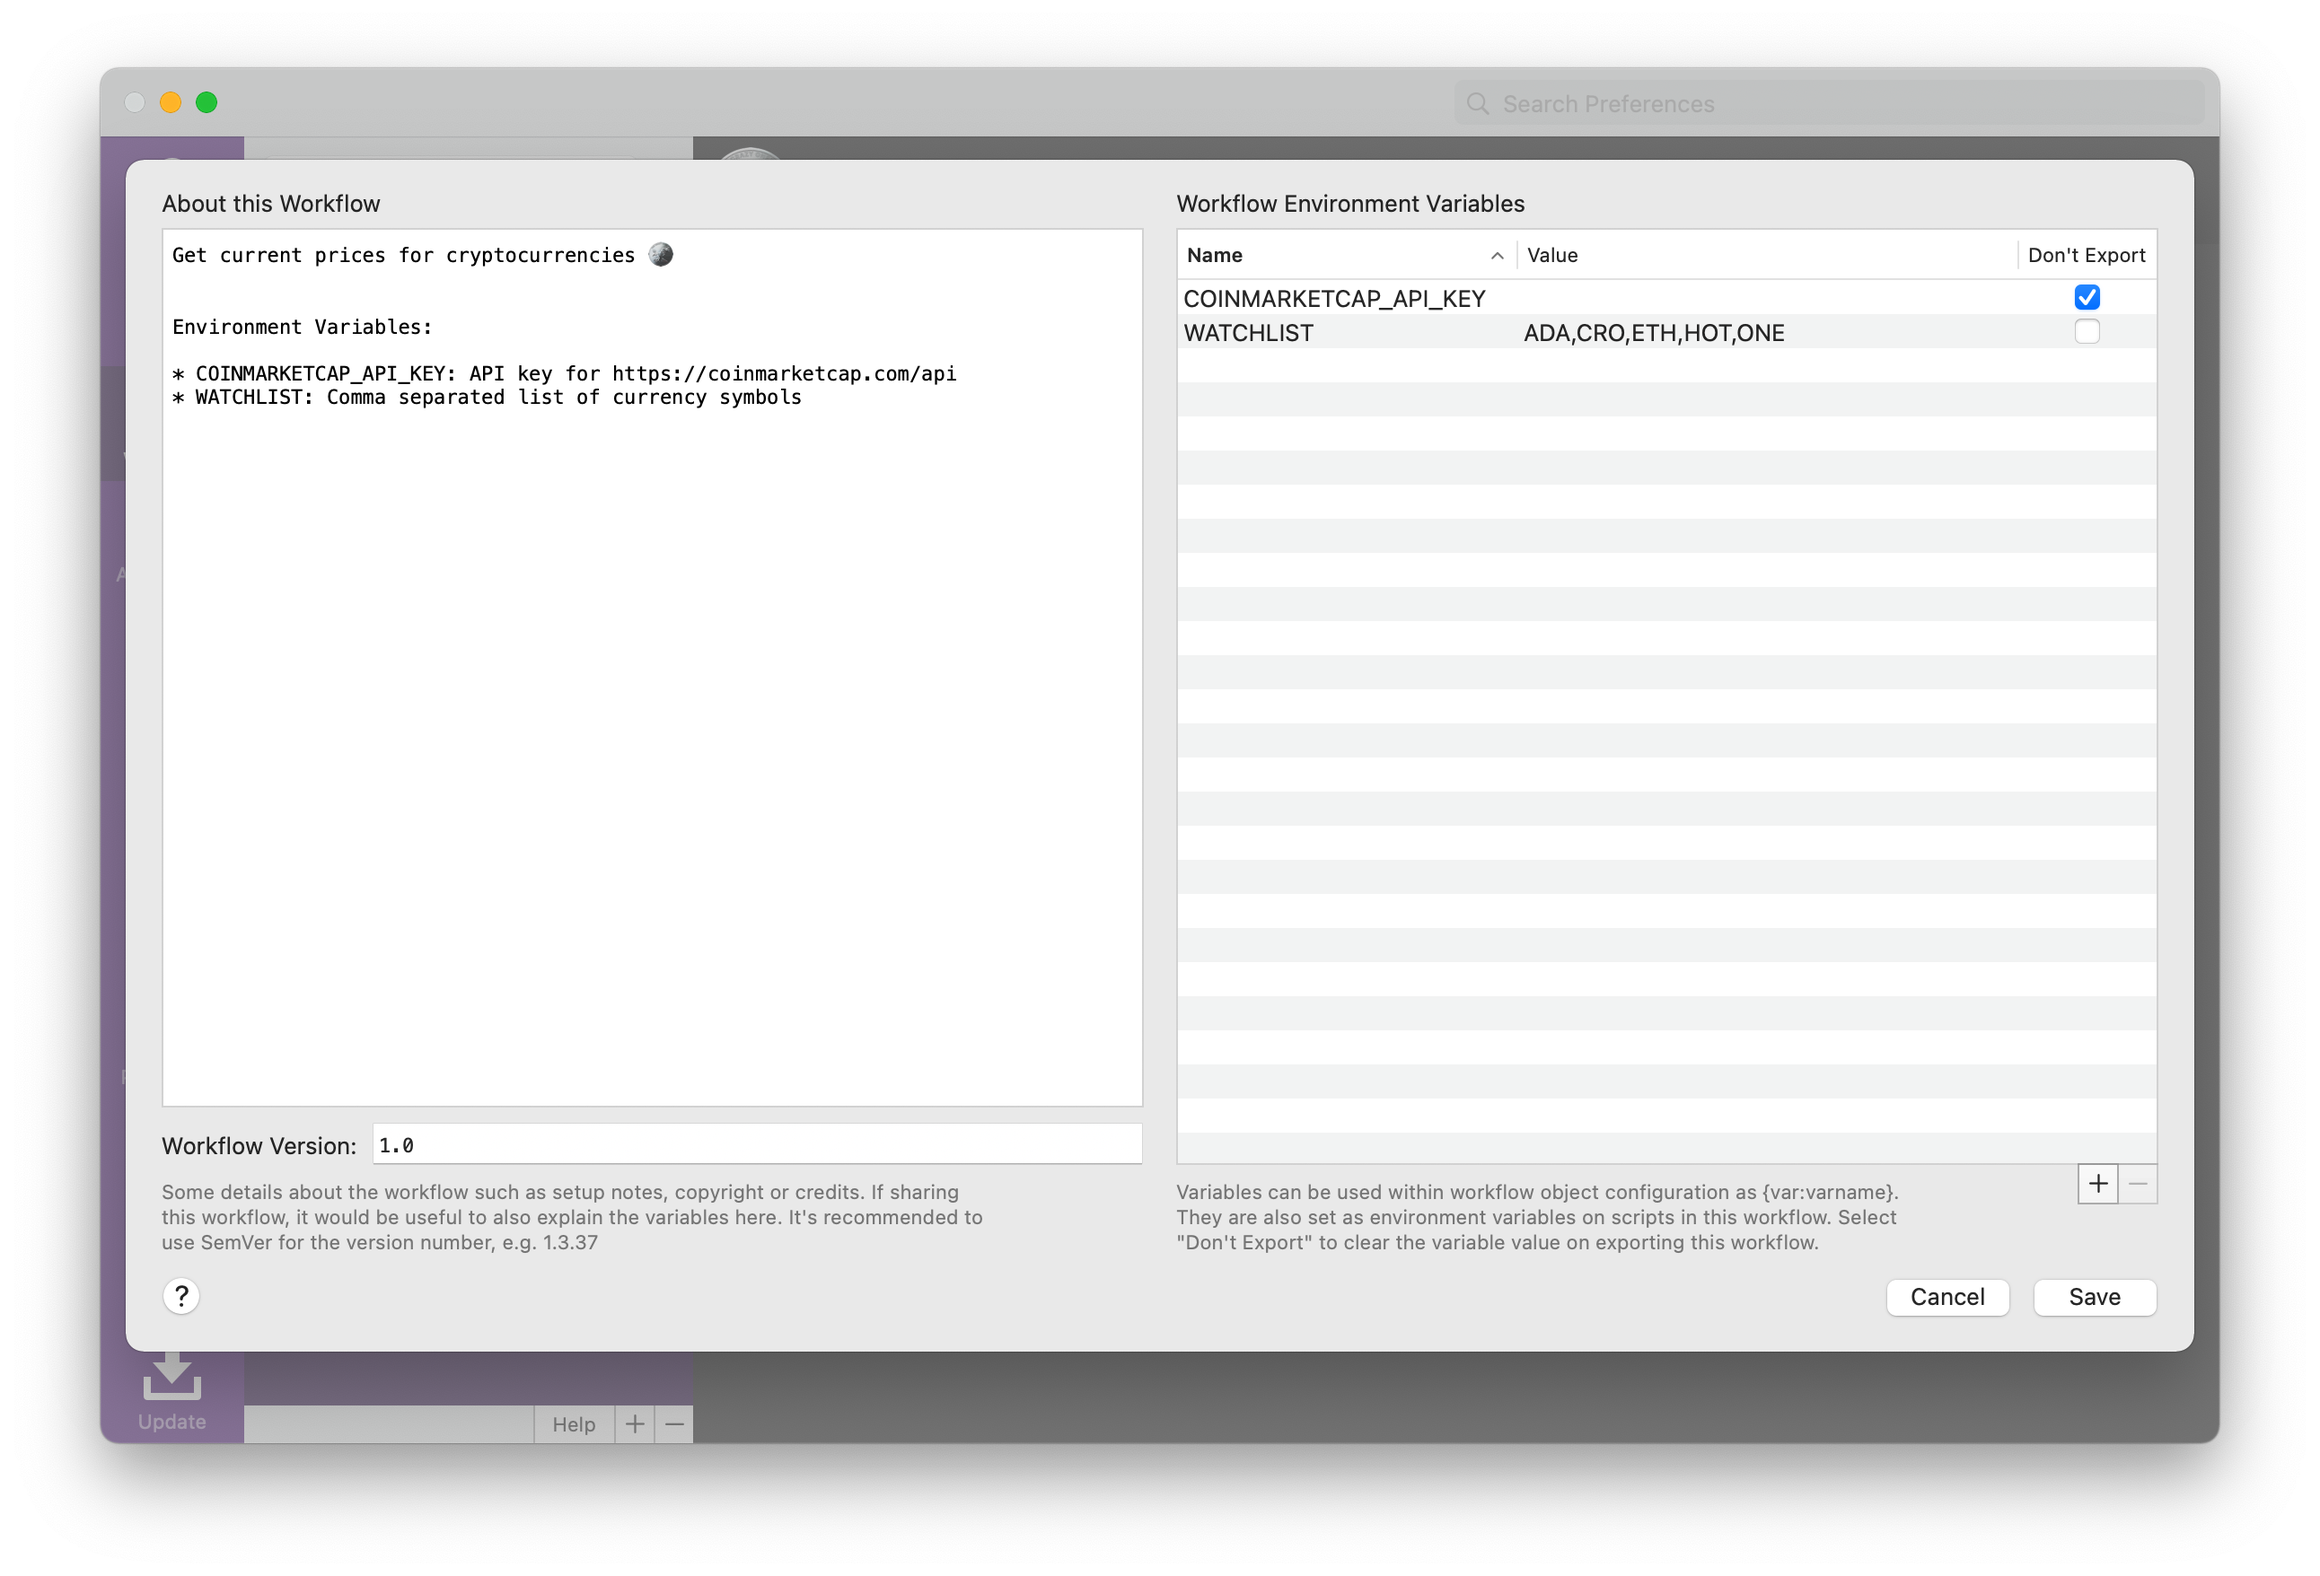
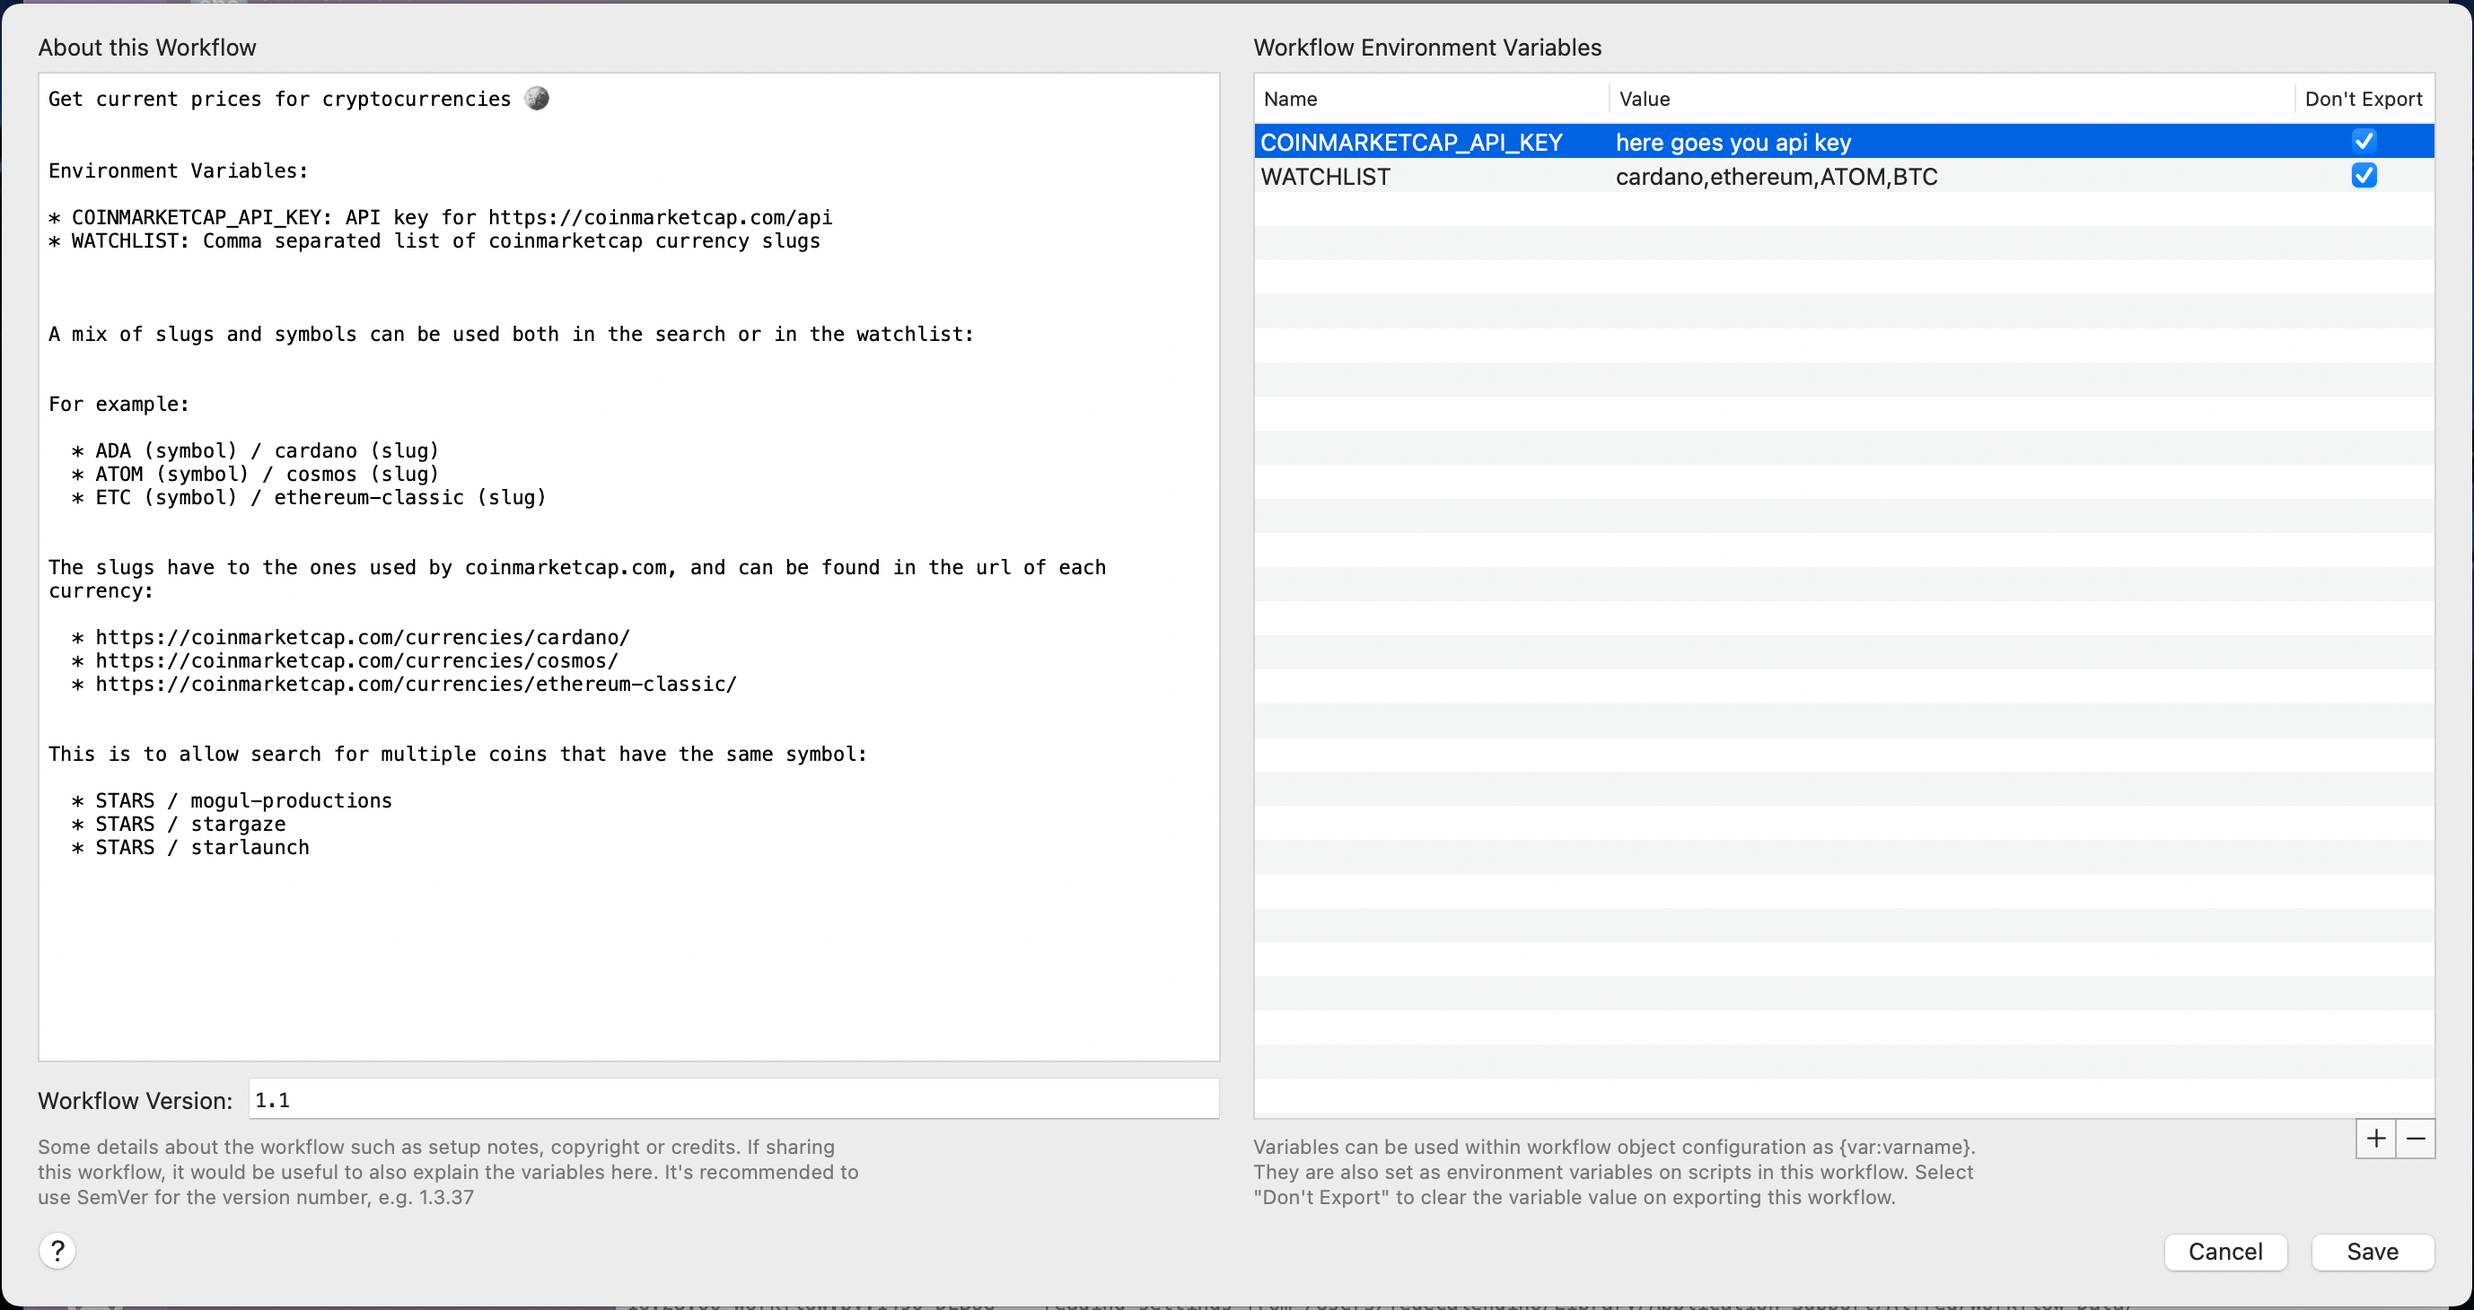
v1.1

diff --git a/main.py b/main.py
@@ -1,74 +1,93 @@
 # coding=utf-8
 
-import os
 import sys
 
 import coinmarketcap
 from workflow import Workflow
 
-
-def error(title, subtitle=None):
-    if subtitle:
-        title = "{}: {}".format(title, subtitle)
-
-    raise Exception(title)
-
-
-def format_percent(value):
-    if value > 50:
-        arrows = u"↑↑↑"
-    elif value > 10:
-        arrows = u"↑↑"
-    elif value > 0:
-        arrows = u"↑"
-    elif value < -50:
-        arrows = u"↓↓↓"
-    elif value < -10:
-        arrows = u"↓↓"
-    else:
-        arrows = u"↓"
-
-    return u"{value:0.2f}% {arrows}".format(value=value, arrows=arrows)
-
-
-def getenv(key):
-    return os.getenv(key, "").upper().replace(" ", "").split(",")
+import formatters
+import util
 
 
 def get_parameters(workflow):
-    if len(workflow.args) == 0:
-        return getenv("WATCHLIST")
+    args = workflow.args
 
-    if len(workflow.args) == 1:
-        if workflow.args[0] == "mc":
-            return None
+    if len(args) == 0:
+        args = util.getenv("WATCHLIST").split(",")
+    else:
+        args = workflow.args
 
-    return list(map(lambda symbol: symbol.upper(), workflow.args))
+    slugs = []
+    symbols = []
+    invalid = []
+
+    for arg in args:
+        if arg.isupper():
+            symbols.append(arg)
+        elif arg.islower():
+            slugs.append(arg)
+        else:
+            invalid.append(arg)
+
+    return slugs, symbols, invalid
 
 
 def main(workflow):
-    currencies = get_parameters(workflow)
+    if workflow.args == ["marketcap"]:
+        found = coinmarketcap.fetch()
+    else:
+        slugs, symbols, invalid = get_parameters(workflow)
 
-    for currency in coinmarketcap.fetch(currencies):
+        for value in invalid:
+            workflow.add_item(
+                title="{value} has an invalid format.".format(value=value),
+                subtitle="Use '{lower}' to search as a slug or '{upper}' to search as a symbol.".format(
+                    lower=value.lower(),
+                    upper=value.upper()
+                ),
+                valid=False,
+            )
+
+        if invalid:
+            return
+
+        try:
+            by_slug = coinmarketcap.fetch(slugs=slugs)
+            by_symbol = coinmarketcap.fetch(symbols=symbols)
+
+            found = by_slug + by_symbol
+        except:
+            workflow.add_item(
+                title="Something went wrong.",
+                subtitle="Check if you are using valid slugs from coinmarketcap.com.".format(
+                    args=workflow.args,
+                ).replace("u'", "'"),
+                arg="https://coinmarketcap.com/coins/views/all/",
+                valid=True,
+            )
+
+            return
+
+    currencies = {}
+
+    for currency in found:
+        mc = currency["rank"]
+        currencies[mc] = currency
+
+    for rank in sorted(currencies.keys()):
+        currency = currencies[rank]
         price = currency["price"]
-
-        if price < 0.01:
-            formatted_price = "{:0.8f}".format(price)
-        elif price < 1:
-            formatted_price = "{:0.6f}".format(price)
-        else:
-            formatted_price = "{:0.2f}".format(price)
 
         title = "[{rank}. {symbol}] {price} USD".format(
             rank=currency["rank"],
             symbol=currency["symbol"],
             name=currency["name"],
-            price=formatted_price,
+            price=formatters.price(price),
         )
         subtitle = u"[hour: {hour}] • [day: {day}] • [week: {week}]".format(
-            hour=format_percent(currency["changes"]["h"]),
-            day=format_percent(currency["changes"]["d"]),
-            week=format_percent(currency["changes"]["w"]),
+            hour=formatters.percent(currency["changes"]["h"]),
+            day=formatters.percent(currency["changes"]["d"]),
+            week=formatters.percent(currency["changes"]["w"]),
         )
 
         workflow.add_item(

diff --git a/coinmarketcap.py b/coinmarketcap.py
@@ -1,7 +1,7 @@
 import os
 
+import util
 from workflow import web
-
 
 BASE_URL = "https://pro-api.coinmarketcap.com/v1"
 LISTING_URL = BASE_URL + "/cryptocurrency/listings/latest"
@@ -11,8 +11,8 @@ IMAGE_FILENAME = "/tmp/{id}.png"
 IMAGE_URL = "https://s2.coinmarketcap.com/static/img/coins/128x128/{id}.png"
 
 
-def fetch(currencies):
-    api_key = os.getenv("COINMARKETCAP_API_KEY")
+def fetch(slugs=None, symbols=None):
+    api_key = util.getenv("COINMARKETCAP_API_KEY")
 
     if not api_key:
         raise ValueError("Missing COINMARKETCAP_API_KEY environment variable")
@@ -22,7 +22,23 @@ def fetch(currencies):
         "X-CMC_PRO_API_KEY": api_key,
     }
 
-    if currencies is None:
+    if slugs:
+        url = QUOTES_URL
+
+        params = {
+            "convert": "USD",
+            "skip_invalid": "true",
+            "slug": ",".join(slugs).lower(),
+        }
+    elif symbols:
+        url = QUOTES_URL
+
+        params = {
+            "convert": "USD",
+            "skip_invalid": "true",
+            "symbol": ",".join(symbols).upper(),
+        }
+    elif slugs is None and symbols is None:
         url = LISTING_URL
 
         params = {
@@ -30,13 +46,7 @@ def fetch(currencies):
             "limit": 20,
         }
     else:
-        url = QUOTES_URL
-
-        params = {
-            "convert": "USD",
-            "skip_invalid": "true",
-            "symbol": ",".join(currencies),
-        }
+        return []
 
     response = web.get(url, headers=headers, params=params)
     response = response.json()["data"]
@@ -48,7 +58,7 @@ def fetch(currencies):
     else:
         currencies = response
 
-    for currency in sorted(currencies, key=lambda c: c["cmc_rank"]):
+    for currency in currencies:
         quote = currency["quote"]["USD"]
 
         data.append(

diff --git a/formatters.py b/formatters.py
@@ -1,0 +1,27 @@
+# coding=utf-8
+
+def percent(value):
+    if value > 50:
+        arrows = u"🟢🟢🟢"
+    elif value > 10:
+        arrows = u"🟢🟢"
+    elif value > 0:
+        arrows = u"🟢"
+    elif value < -50:
+        arrows = u"🔴🔴🔴"
+    elif value < -10:
+        arrows = u"🔴🔴"
+    else:
+        arrows = u"🔴"
+
+    return u"{value:0.2f}% {arrows}".format(value=value, arrows=arrows)
+
+
+def price(value):
+    if value < 0.01:
+        return "{:0.8f}".format(value)
+
+    if value < 1:
+        return "{:0.6f}".format(value)
+
+    return "{:0.2f}".format(value)

diff --git a/util.py b/util.py
@@ -1,0 +1,5 @@
+import os
+
+
+def getenv(key):
+    return os.getenv(key, "").strip()

diff --git a/README.md b/README.md
@@ -3,14 +3,56 @@
 
 #### Set Up:
 
-![vars example](/img/screenshots/vars.png)
+![vars example](./img/screenshots/vars.png)
+
+
+Environment Variables:
+
+* **COINMARKETCAP_API_KEY**: API key for https://coinmarketcap.com/api
+* **WATCHLIST**: Comma separated list of coinmarketcap currency slugs
 
 
 #### Usage:
 
-![search example](/img/screenshots/search.png)
+A mix of slugs and symbols can be used both in the search or in the watchlist:
 
-![watchlist example](/img/screenshots/watchlist.png)
-> From WATCHLIST variable.
 
-![marketcap example](/img/screenshots/marketcap.png)
+For example:
+
+  * ADA (symbol) / cardano (slug)
+  * ATOM (symbol) / cosmos (slug)
+  * ETC (symbol) / ethereum-classic (slug)
+
+
+The slugs have to the ones used by coinmarketcap.com, and can be found in the url of each currency:
+
+  * https://coinmarketcap.com/currencies/**cardano**/
+  * https://coinmarketcap.com/currencies/**cosmos**/
+  * https://coinmarketcap.com/currencies/**ethereum-classic**/
+
+
+This is to allow search for multiple coins that have the same symbol:
+
+  * STARS / mogul-productions
+  * STARS / stargaze
+  * STARS / starlaunch
+
+
+
+> note: results will be always sorted by marketcap rank.
+
+
+##### • watchlist (from WATCHLIST variable)
+
+![watchlist example](./img/screenshots/watchlist.png)
+
+
+##### • search
+
+![search example](./img/screenshots/search.png)
+
+
+##### • marketcap
+
+![marketcap example](./img/screenshots/marketcap.png)
+
